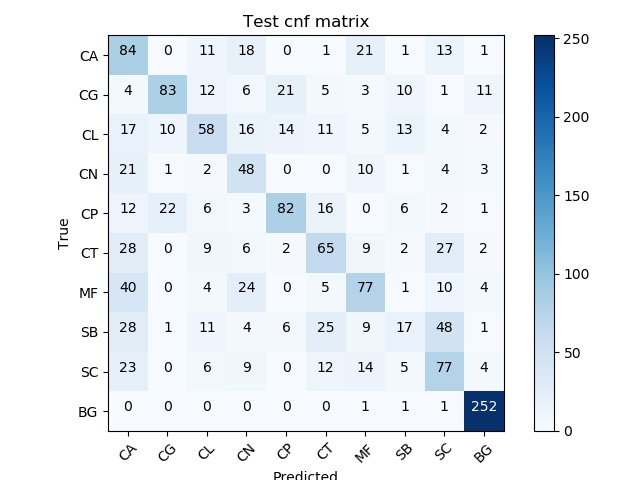
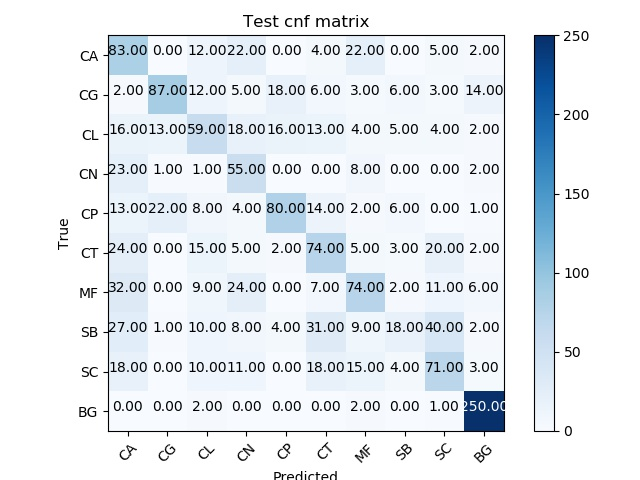
Add probabilities matrices

diff --git a/experiments/confusion_matrices.py b/experiments/confusion_matrices.py
@@ -29,7 +29,8 @@ def plot_cnf_matrix(matrix, classes, title, normalize=False):
     plt.xticks(tick_marks, classes.values(), rotation=45)
     plt.yticks(tick_marks, classes.values())
     # numeric values on matrix
-    fmt = '.2f' if normalize else 'd'
+    # fmt = '.2f' if normalize else 'd'
+    fmt = '.2f'
     tresh = matrix.max() / 2
     for i, j in itertools.product(range(matrix.shape[0]), range(matrix.shape[1])):
         plt.text(j, i, format(matrix[i, j], fmt),
@@ -39,6 +40,19 @@ def plot_cnf_matrix(matrix, classes, title, normalize=False):
     plt.tight_layout()
     plt.ylabel('True')
     plt.xlabel('Predicted')
+
+
+def probability_confusion_matrix(y_true, y_pred, probabilities):
+    matrix = np.zeros((10, 10))
+    count_matrix = np.zeros((10, 10))
+    for i in range(len(y_true)):
+        matrix[y_true[i], y_pred[i]] += probabilities[i, y_pred[i]]
+        count_matrix[y_true[i], y_pred[i]] += 1
+    print(matrix)
+    print(count_matrix)
+    tmp = np.divide(matrix, count_matrix)
+    print(tmp)
+    return tmp
 
 
 if __name__ == '__main__':
@@ -63,6 +77,12 @@ if __name__ == '__main__':
     plot_cnf_matrix(cnf_matrix, FungusDataset.NUMBER_TO_FUNGUS,
                     'Train normalized cnf matrix', normalize=True)
     plt.savefig('results/train_cnf_matrix_normalized.jpg')
+    plt.figure()
+    probabilities = pipeline.predict_proba(feature_matrix)
+    cnf_matrix = probability_confusion_matrix(y_true, y_pred, probabilities)
+    plot_cnf_matrix(cnf_matrix, FungusDataset.NUMBER_TO_FUNGUS,
+                    'Train probability cnf matrix')
+    plt.savefig('results/train_probability_cnf_matrix.jpg')
 
     # test
     feature_matrix = np.load('results/test_feature_matrix.npy')
@@ -77,3 +97,9 @@ if __name__ == '__main__':
     plot_cnf_matrix(cnf_matrix, FungusDataset.NUMBER_TO_FUNGUS,
                     'Test normalized cnf matrix', normalize=True)
     plt.savefig('results/test_cnf_matrix_normalized.jpg')
+    plt.figure()
+    probabilities = pipeline.predict_proba(feature_matrix)
+    cnf_matrix = probability_confusion_matrix(y_true, y_pred, probabilities)
+    plot_cnf_matrix(cnf_matrix, FungusDataset.NUMBER_TO_FUNGUS,
+                    'Test probability cnf matrix')
+    plt.savefig('results/test_probability_cnf_matrix.jpg')

diff --git a/experiments/hyperparameters.py b/experiments/hyperparameters.py
@@ -25,7 +25,7 @@ if __name__ == '__main__':
     pipeline = Pipeline(
         steps=[
             ('fisher_vector', FisherVectorTransformer()),
-            ('svc', svm.SVC())
+            ('svc', svm.SVC(probability=True))
         ]
     )
 
@@ -43,7 +43,7 @@ if __name__ == '__main__':
             'svc__gamma': [0.001, 0.0001],
             'svc__kernel': ['rbf']
         }]
-    pipeline = model_selection.GridSearchCV(pipeline, param_grid)
+    pipeline = model_selection.GridSearchCV(pipeline, param_grid, n_jobs=24)
     pipeline.fit(feature_matrix, labels)
     log.info(pipeline.best_params_)
     joblib.dump(pipeline, 'results/best_model.pkl')
